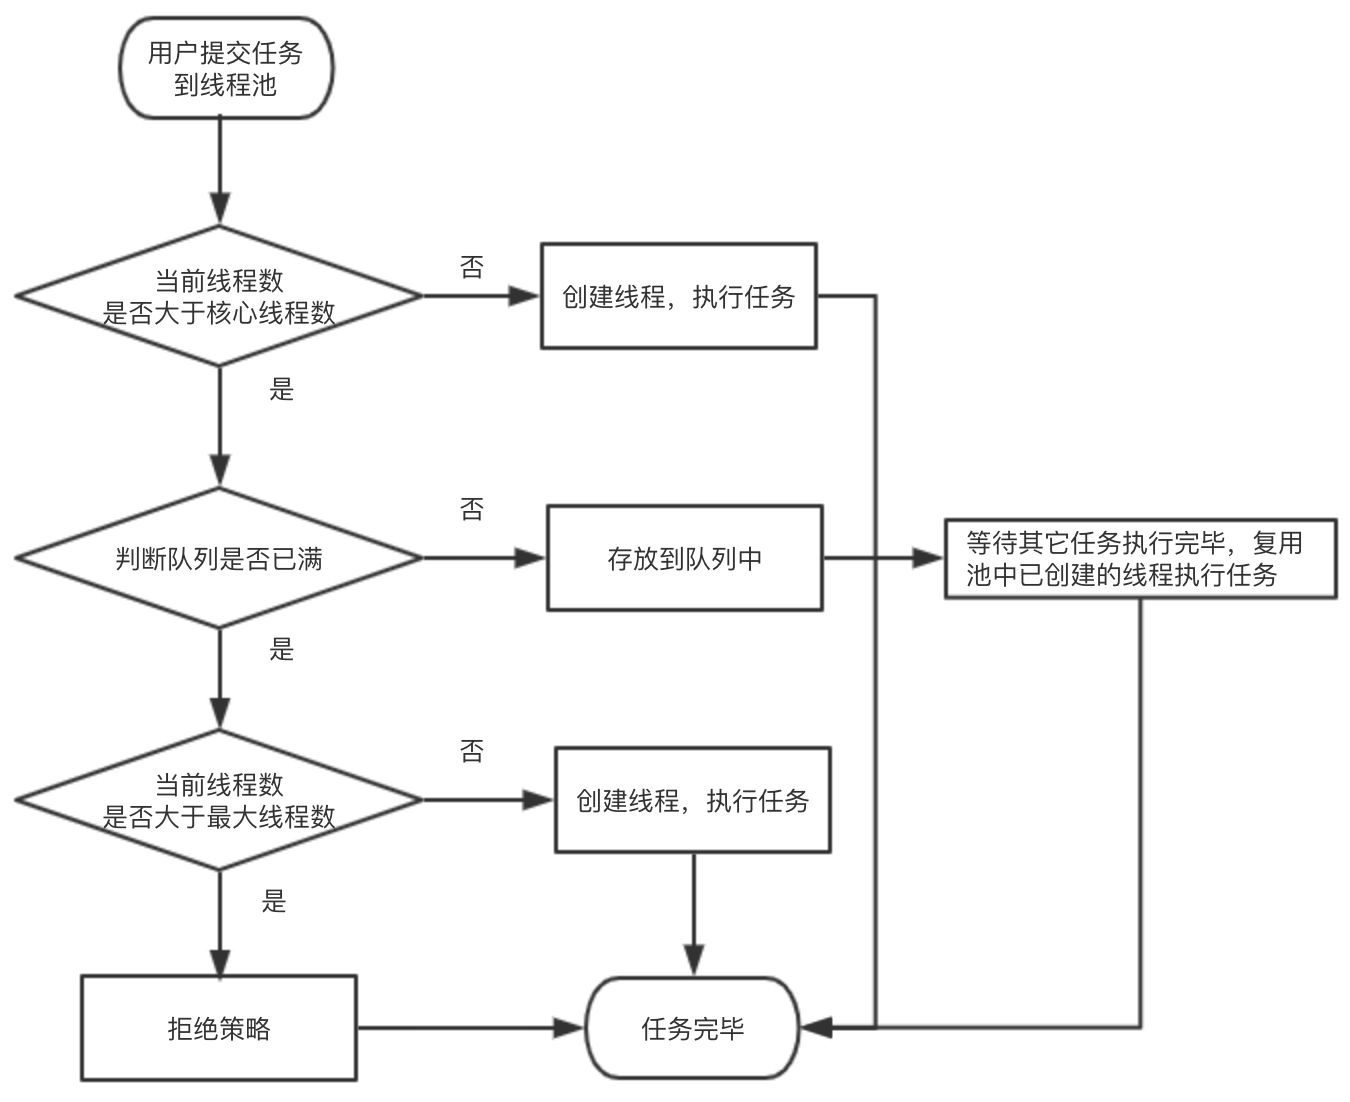
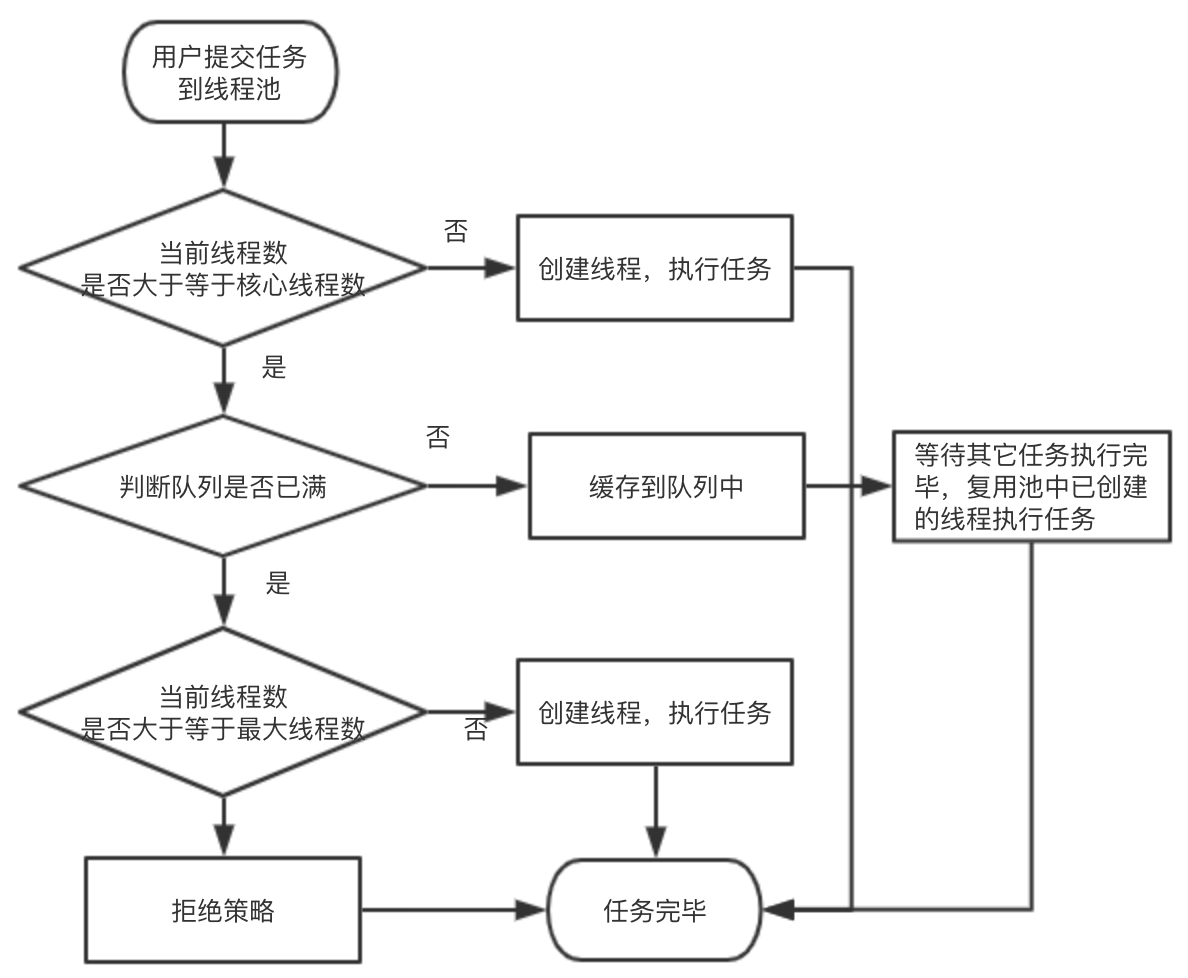
update concurrency04-thread-pool

Changed region(s): [[0.0, 0.0, 0.9966, 1.0], [0.2803, 0.0613, 0.3114, 0.092]]

diff --git a/README.md b/README.md
@@ -769,8 +769,48 @@ public static ExecutorService newSingleThreadExecutor() {
 ![](images/线程池原理图.png)  
 
 #### 自定义线程池
+如果当前线程池中的线程数目小于corePoolSize，则每来一个任务，就会创建一个线程去执行这个任务；  
+如果当前线程池中的线程数目>=corePoolSize，则每来一个任务，会尝试将其添加到任务缓存队列当中，若添加成功，则该任务会等待空闲线程将其取出去执行；若添加失败（一般来说是任务缓存队列已满），则会尝试创建新的线程去执行这个任务；  
+如果队列已经满了，则在总线程数不大于maximumPoolSize的前提下，则创建新的线程；  
+如果当前线程池中的线程数目达到maximumPoolSize，则会采取任务拒绝策略进行处理；  
+如果线程池中的线程数量大于corePoolSize时，如果某线程空闲时间超过keepAliveTime，线程将被终止，直至线程池中的线程数目不大于corePoolSize；如果允许为核心池中的线程设置存活时间，那么核心池中的线程空闲时间超过keepAliveTime，线程也会被终止。  
 
-> 示例代码 concurrency04-thread-pool.CustomThreadPoolDemo.java
+> 示例代码 concurrency04-thread-pool.CustomThreadPoolDemo.java  
+
+#### 合理配置线程池
+- CPU密集  
+CPU密集的意思是该任务需要大量的运算，而没有阻塞，CPU一直全速运行。   
+CPU密集任务只有在真正的多核CPU上才可能得到加速（通过多线程），而在单核CPU上，无论你开几个模拟的多线程，该任务都不可能得到加速，因为CPU总的运算能力就那些。  
+
+- IO密集  
+IO密集型，即该任务需要大量的IO，即大量的阻塞。在单线程上运行IO密集型的任务会导致浪费大量的CPU运算能力浪费在等待。所以在IO密集型任务中使用多线程可以大大的加速程序运行，即时在单核CPU上，这种加速主要就是利用了被浪费掉的阻塞时间。  
+
+要想合理的配置线程池的大小，首先得分析任务的特性，可以从以下几个角度分析：
+1. 任务的性质：CPU密集型任务、IO密集型任务、混合型任务。  
+2. 任务的优先级：高、中、低。  
+3. 任务的执行时间：长、中、短。  
+4. 任务的依赖性：是否依赖其他系统资源，如数据库连接等。  
+
+性质不同的任务可以交给不同规模的线程池执行。  
+对于不同性质的任务来说，CPU密集型任务应配置尽可能小的线程，如配置CPU个数+1的线程数，  
+IO密集型任务应配置尽可能多的线程，因为IO操作不占用CPU，不要让CPU闲下来，应加大线程数量，如配置两倍CPU个数+1，  
+而对于混合型的任务，如果可以拆分，拆分成IO密集型和CPU密集型分别处理，前提是两者运行的时间是差不多的，如果处理时间相差很大，则没必要拆分了。  
+若任务对其他系统资源有依赖，如某个任务依赖数据库的连接返回的结果，这时候等待的时间越长，则CPU空闲的时间越长，那么线程数量应设置得越大，才能更好的利用CPU。   
+当然具体合理线程池值大小，需要结合系统实际情况，在大量的尝试下比较才能得出，以上只是前人总结的规律。
+
+最佳线程数目 =（（线程等待时间+线程CPU时间）/线程CPU时间 ）* CPU数目
+比如平均每个线程CPU运行时间为0.5s，而线程等待时间（非CPU运行时间，比如IO）为1.5s，CPU核心数为8，那么根据上面这个公式估算得到：((0.5+1.5)/0.5)*8=32。这个公式进一步转化为：
+最佳线程数目 =（线程等待时间与线程CPU时间之比 + 1）* CPU数目  
+
+可以得出一个结论： 
+线程等待时间所占比例越高，需要越多线程。线程CPU时间所占比例越高，需要越少线程。  
+
+以上公式与之前的CPU和IO密集型任务设置线程数基本吻合。
+CPU密集型时，任务可以少配置线程数，大概和机器的cpu核数相当，这样可以使得每个线程都在执行任务。  
+IO密集型时，大部分线程都阻塞，故需要多配置线程数，2*cpu核数。    
+操作系统之名称解释：  
+某些进程花费了绝大多数时间在计算上，而其他则在等待I/O上花费了大多是时间，前者称为计算密集型（CPU密集型）computer-bound，后者称为I/O密集型，I/O-bound。  
+
 
 
 
